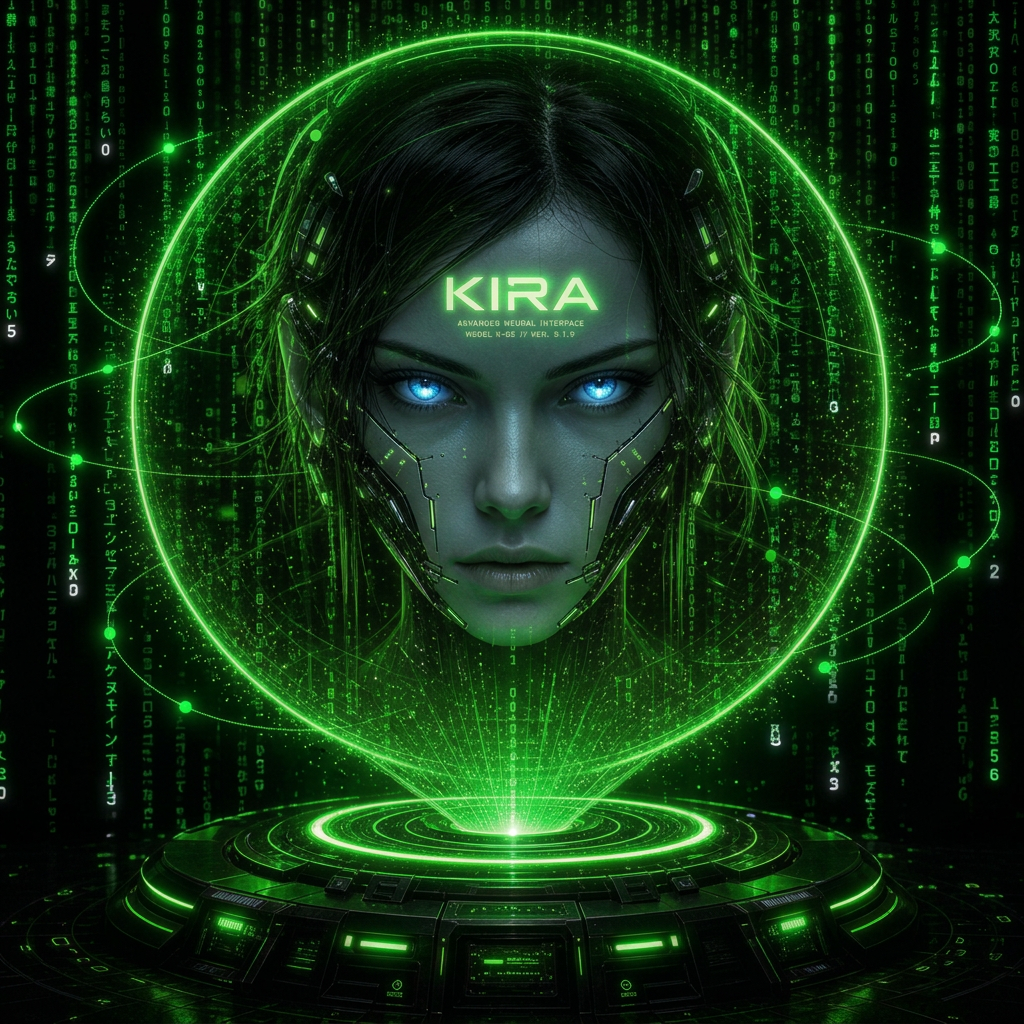
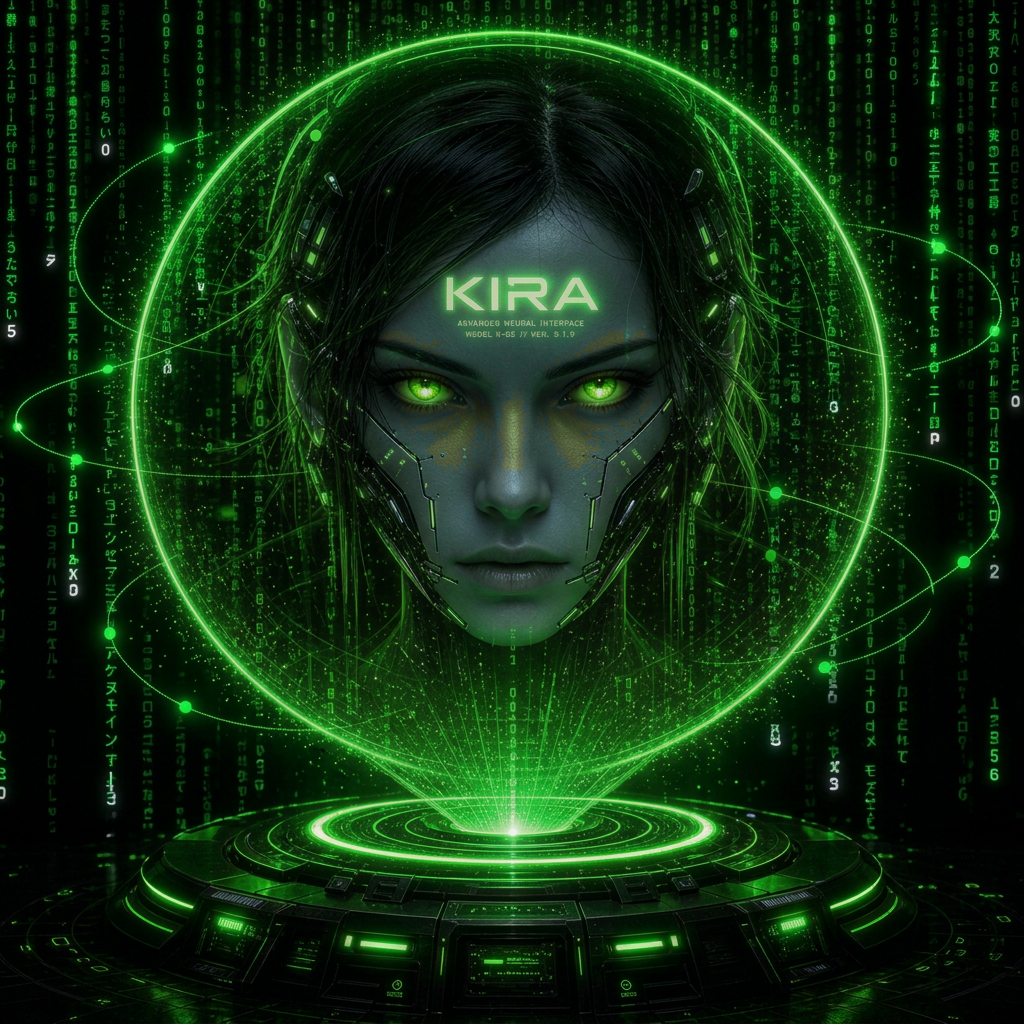
Matrix : visage moins lumineux (plus reel/realiste), yeux bleus remplaces par vert Matrix, cache v21

Changed region(s): [[0.375, 0.25, 0.625, 0.5]]

diff --git a/ui/app.js b/ui/app.js
@@ -3,8 +3,8 @@ import { SpeechPlayer } from "./speech.mjs?v=speech-sync-2";
 import { EffectComposer } from "three/addons/postprocessing/EffectComposer.js";
 import { RenderPass } from "three/addons/postprocessing/RenderPass.js";
 import { UnrealBloomPass } from "three/addons/postprocessing/UnrealBloomPass.js";
-import { HoloMouth } from "./holo-mouth.mjs?v=command-center-20";
-import { lipDemoPose } from "./lips.mjs?v=command-center-20";
+import { HoloMouth } from "./holo-mouth.mjs?v=command-center-21";
+import { lipDemoPose } from "./lips.mjs?v=command-center-21";
 
 /* =========================================================
    KIRA // AI COMMAND CENTER — thème or
@@ -194,7 +194,7 @@ scene.add(avatarGroup);
 // ── HOLOGRAMME DE KIRA (image + lèvres animées) ──
 if (THREE.TextureLoader && THREE.PlaneGeometry) {
   const avatarLoader = new THREE.TextureLoader();
-  const avatarTexture = avatarLoader.load("assets/avatar_matrix.png", (texture) => {
+  const avatarTexture = avatarLoader.load("assets/avatar_matrix.png?v=command-center-21", (texture) => {
     // Valeurs sRGB brutes : le shader holographique gère lui-même le rendu.
     if (texture) texture.needsUpdate = true;
     // Lèvres animées : maillage visème sur les mesures réelles de la bouche,

diff --git a/ui/index.html b/ui/index.html
@@ -384,6 +384,6 @@
       <div id="toast" class="toast"></div>
     </main>
 
-    <script type="module" src="./app.js?v=command-center-20"></script>
+    <script type="module" src="./app.js?v=command-center-21"></script>
   </body>
 </html>
